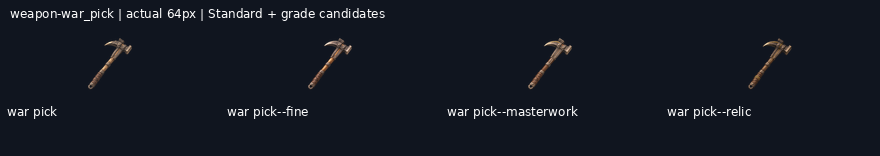
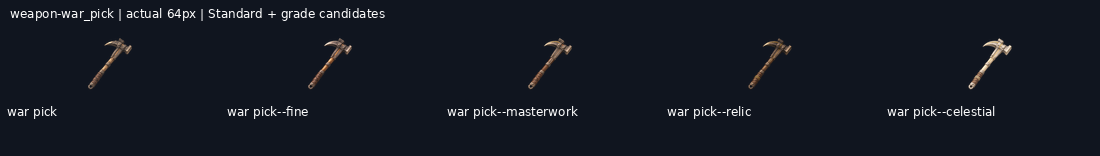
Deliver weapon-war_pick--celestial review candidate with native provenance and exports

diff --git a/art/briefs/prompts-2026-11-19/PRODUCTION-STATUS.md b/art/briefs/prompts-2026-11-19/PRODUCTION-STATUS.md
@@ -1,12 +1,12 @@
 # Current sole-artist production
 
-**550/871 (63.1%) selected review candidates.** Last delivery: `weapon-ork_machete--celestial`. Imports, exports, components, rejected attempts and archived alternatives add0. Artistic/implementation approvals remainfalse.
+**551/871 (63.3%) selected review candidates.** Last delivery: `weapon-war_pick--celestial`. Imports, exports, components, rejected attempts and archived alternatives add0. Artistic/implementation approvals remainfalse.
 
 | Requested work | Selected | Total |
 | --- | ---: | ---: |
 | icons_tiles | 88 | 88 |
 | new_repaint_standards | 53 | 104 |
-| grades | 395 | 656 |
+| grades | 396 | 656 |
 | uniques | 14 | 23 |
 
 Active run sole-20261121-0109, branch art/2026-11-20-reset-continuation. Shared live ledger: https://github.com/leonpentastorm/Project-Heaven-Cry/issues/3 . Current renewed grade lane: art/_archive/gear/2026-11-21-retry-continuation/START-HERE.md. All earlier512 candidate drawings were integrated before this lane; native bytes, cleaned imports, source metadata and all prior failures preserved.

diff --git a/art/_archive/gear/2026-11-20-reset-continuation/START-HERE.md b/art/_archive/gear/2026-11-20-reset-continuation/START-HERE.md
@@ -1,6 +1,6 @@
 # Current21November continuation
 
-550/871 selected. Active lane art/_archive/gear/2026-11-21-retry-continuation/START-HERE.md, run sole-20261121-0109. User explicitly authorized renewed fictional-art attempts; all priorart/errors preserved. Read liveissue3+allcomments and remote deliveries before everyrender. RunningScript completed with original marks unchanged. All approvalsfalse;0.30 holdsremain. See PRODUCTION-STATUS.md and REMAINING-WORK.json for the latest exact count.
+551/871 selected. Active lane art/_archive/gear/2026-11-21-retry-continuation/START-HERE.md, run sole-20261121-0109. User explicitly authorized renewed fictional-art attempts; all priorart/errors preserved. Read liveissue3+allcomments and remote deliveries before everyrender. RunningScript completed with original marks unchanged. All approvalsfalse;0.30 holdsremain. See PRODUCTION-STATUS.md and REMAINING-WORK.json for the latest exact count.
 
 # Historical20November handoff
 

diff --git a/art/_archive/gear/2026-11-21-retry-continuation/HANDOFF.md b/art/_archive/gear/2026-11-21-retry-continuation/HANDOFF.md
@@ -1,13 +1,13 @@
 # Reset continuation progress
 
-Branch: `art/2026-11-20-reset-continuation`. New deliveries: 37/41.
+Branch: `art/2026-11-20-reset-continuation`. New deliveries: 38/41.
 
 Shared coordination: https://github.com/leonpentastorm/Project-Heaven-Cry/issues/3 . Read START-HERE.md before extending this queue.
 
 All new entries remain review-candidate; production_approved:false and implementation_ready:false. Exact-outline review remains pending.
 
-Ready jobs: weapon-purifier_flamer--masterwork, weapon-war_pick--celestial.
+Ready jobs: weapon-purifier_flamer--masterwork.
 
-Pending jobs: weapon-purifier_flamer--masterwork, weapon-purifier_flamer--relic, weapon-purifier_flamer--celestial, weapon-war_pick--celestial.
+Pending jobs: weapon-purifier_flamer--masterwork, weapon-purifier_flamer--relic, weapon-purifier_flamer--celestial.
 
 Quota state: null.
